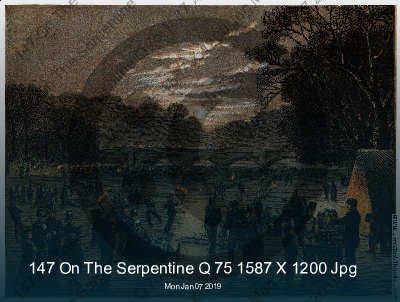
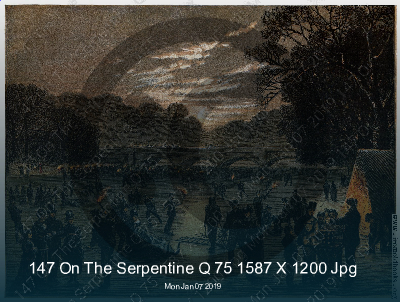
FONT_ROBOTO_16_WHITE_SHADOW

diff --git a/index.js b/index.js
@@ -27,16 +27,21 @@ async function gradientToImg (image) {
 // текст не задан заранее, так что для каждой картинки можно использовать уникальный текст - название картинки, имя автора, дату создания этой картинки и тд
 async function watermarkTextToImg (image, text = 'watermark text') {
   let img = image
-  let font = await Jimp.loadFont(Jimp.FONT_SANS_16_BLACK)
+  let imgHeight = img.bitmap.height
+  text = text + ' '
+  let watermarkText = text
+  const range = require('lodash/range')
+  range(0, imgHeight / 50).forEach(n => {
+    watermarkText = watermarkText + text
+  })
+  let font = await Jimp.loadFont('./fonts/FONT_ROBOTO_16_WHITE_SHADOW.fnt')
   //
   let watermarkTextImg = new Jimp(500, 30)
-  watermarkTextImg = await watermarkTextImg.print(font, 0, 0, text)
+  watermarkTextImg = await watermarkTextImg.print(font, 0, 0, watermarkText)
   watermarkTextImg = await watermarkTextImg.rotate(45)
-  watermarkTextImg = await watermarkTextImg.opacity(0.3)
+  watermarkTextImg = await watermarkTextImg.opacity(0.15)
   // создадим массив цифр при помощи lodash/range используя ширину картинки
   // при помощи этого массива мы заполним картинку нашим текстовым ватермарком
-  let imgHeight = img.bitmap.height
-  const range = require('lodash/range')
   let imgHeightRange = range(-imgHeight, imgHeight, 60)
   imgHeightRange.forEach(async number => {
     img = await img.composite(watermarkTextImg, 10, number, [
